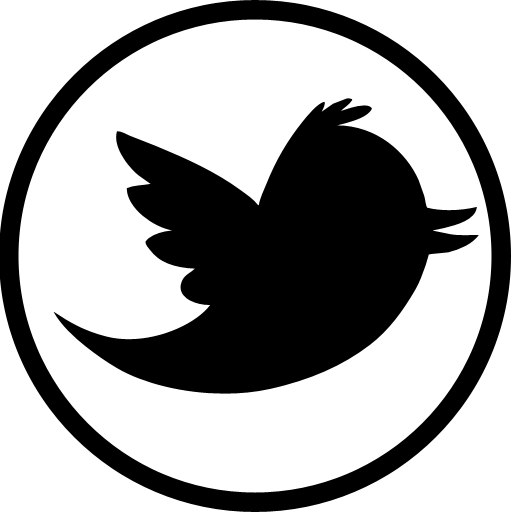
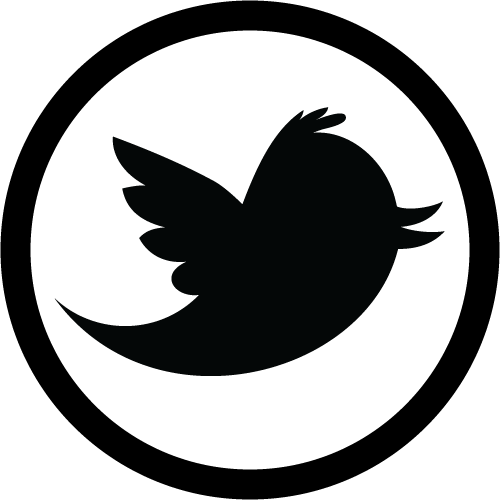
new CSS file and twitter img

diff --git a/index.html b/index.html
@@ -3,18 +3,30 @@
   <head>
     <title>Eric Shou Portfolio</title>
     <!-- New font -->
-    <link href='http://fonts.googleapis.com/css?family=Poiret+One' rel='stylesheet' type='text/css'>
+    <link href='http://fonts.googleapis.com/css?family=Orbitron' rel='stylesheet' type='text/css'>
+
+    <link type="text/css" rel="stylesheet" href="stylesheet.css"/>
   </head>
   <body>
     <header>
-      <h1>Eric Shou.com</h1>
-      <p>Beginner Programmer, Playful Hardworker,Life Learner</p>
+      <h1>Eric Shou</h1>
+      <p id="describe">Beginner Programmer, Playful Hardworker,Life Learner</p><hr>
     </header>
-  <div id="Media">
-    <ul>
-        <li><a href="https://www.facebook.com/eric.shou.3"><img src="https://github.com/eshou1014/eshou1014.github.io/blob/master/imgs/facebook.jpg?raw=true">
-        </a></li>
+  <div id= "Nav">
 
-        <li><a href="https://www.linkedin.com/pub/eric-shou/65/a50/2a9"><img src="https://github.com/eshou1014/eshou1014.github.io/blob/master/imgs/linkedin.jpg?raw=true"></a></li>
+      <a href="#">Projects |</a>
+      <a href="#">Blog |</a>
+      <a href="#">About me</a>
+
+  </div>
+  <div id= "Media">
+        <a href="https://www.facebook.com/eric.shou.3"><img src="https://github.com/eshou1014/eshou1014.github.io/blob/master/imgs/facebook.jpg?raw=true">
+        </a>
+
+        <a href="https://www.linkedin.com/pub/eric-shou/65/a50/2a9"><img src="https://github.com/eshou1014/eshou1014.github.io/blob/master/imgs/linkedin.jpg?raw=true"></a>
+
+        <a href="https://twitter.com/Eshou1014"><img src="https://github.com/eshou1014/eshou1014.github.io/blob/master/imgs/twitter.jpg?raw=true"></a>
+      </div>
+
   </body>
 </html>

diff --git a/stylesheet.css b/stylesheet.css
@@ -1,0 +1,40 @@
+html {
+background-color: #FFE6B1;
+}
+
+#Media {
+
+height: auto;
+width: 540px;
+}
+
+#Nav {
+  height: 100px;
+  text-align: center;
+  font-size: 50px;
+}
+
+a:link {
+  color: #FFA82D;
+  text-decoration: none;
+}
+
+a:hover {
+  font-size: 55px;
+  color: #7F715D;
+}
+
+header {
+  font-family: Orbitron;
+  font-weight: bold;
+  font-size: 40px;
+  text-align: center;
+  position: relative;
+
+}
+
+#describe {
+  margin-top:100px;
+  position: relative;
+
+}
